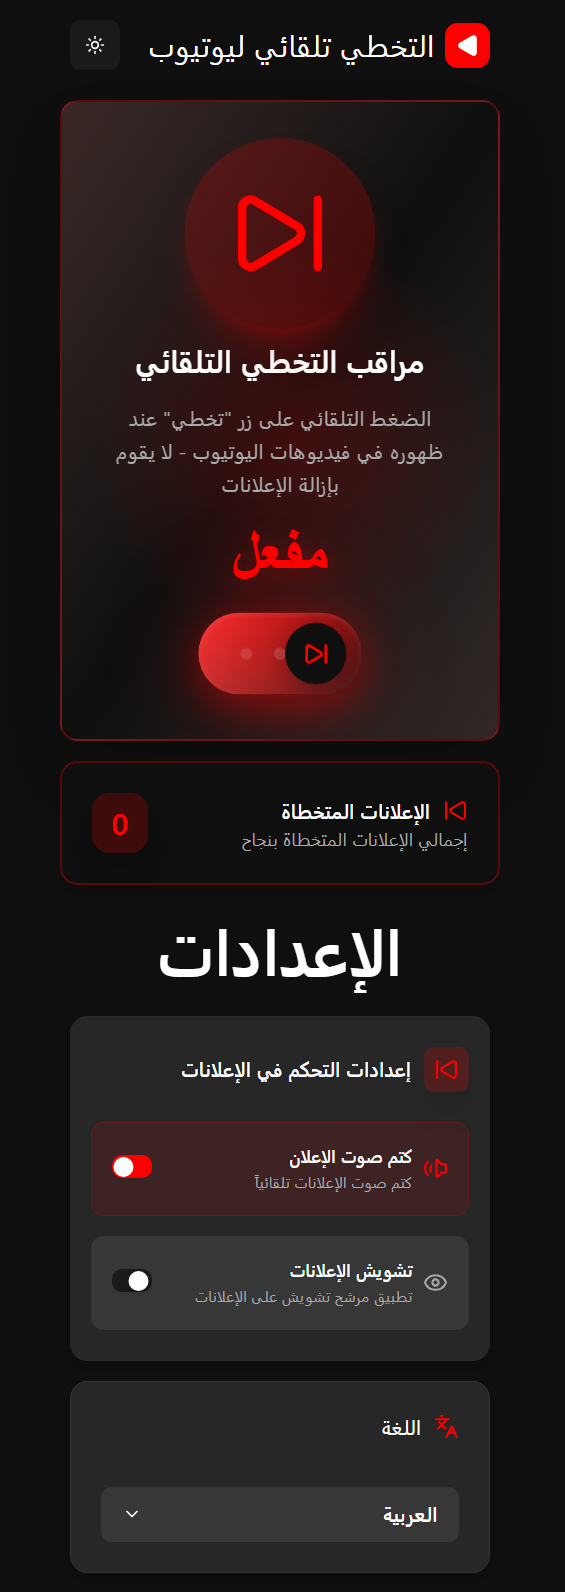
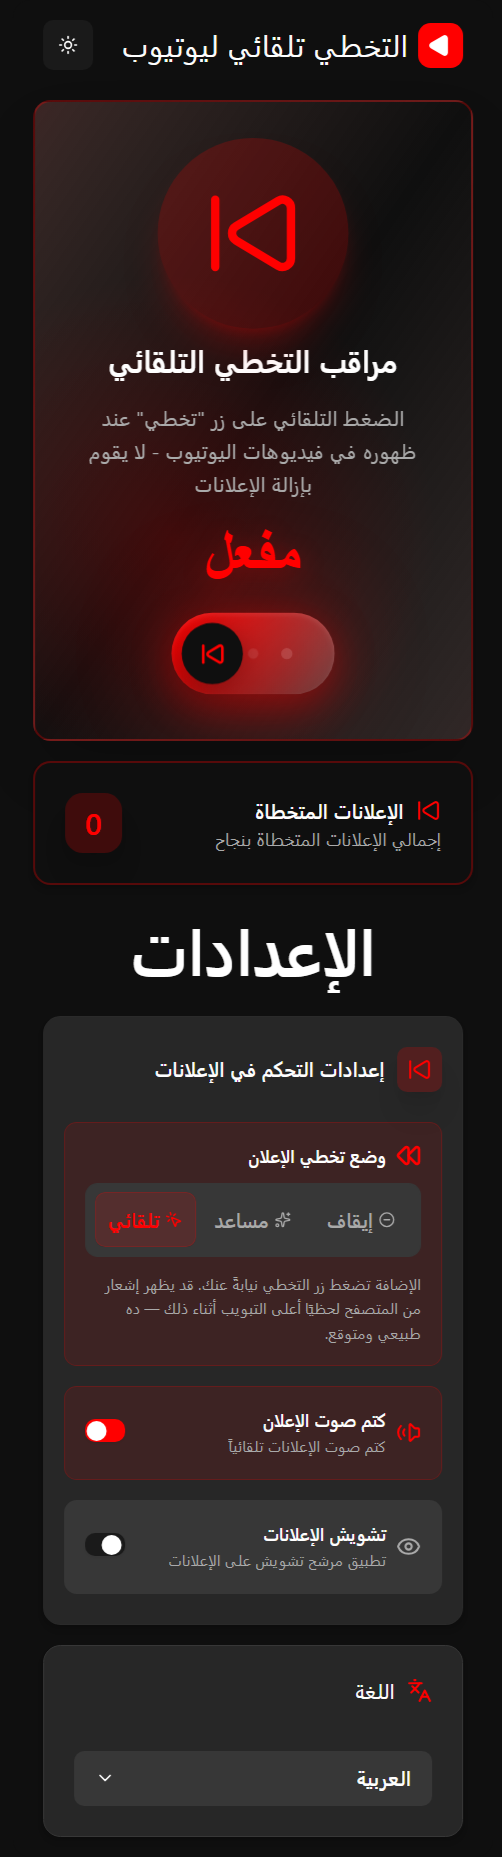
feat: update README with enhanced description and skip modes; add new preview screenshot

Changed region(s): [[0.0598, 0.0, 0.9562, 1.0], [0.9263, 0.4309, 0.9562, 0.4617]]

diff --git a/README.md b/README.md
@@ -4,12 +4,11 @@
 </h1>
 <p align="center">
   <em>
-    A smart and lightweight Chrome extension that automatically skips YouTube ads, mutes ads when needed, 
-    and slightly reduces ad visibility using blur. 
-    It never deletes ads and only interacts with the official “Skip Ads” button.
+    A smart and lightweight Chrome extension that helps you skip YouTube ads using multiple skip modes,
+    from highlighting the Skip Ad button to clicking it automatically when it appears.
+    It never deletes or blocks ads and only interacts with YouTube's official "Skip Ad" button.
   </em>
 </p>
-
 
 <p align="center">
   <img src="https://img.shields.io/badge/Chrome-Extension-4285F4?style=for-the-badge&logo=google-chrome" />
@@ -22,11 +21,25 @@
 
 ## ✨ Overview
 
-**AutoSkip for YouTube** is a modern **Chrome Extension** built with **React** and **TypeScript**  
-that enhances your YouTube watching experience by providing full control over ads while keeping content intact.  
+**AutoSkip for YouTube** is a modern **Chrome Extension** built with **React** and **TypeScript**
+that gives you flexible control over YouTube's **Skip Ad** button without removing or blocking ads.
 
-It **automatically clicks the "Skip" button** as soon as it appears in YouTube videos — it **does not remove ads**  
-and **fully complies with YouTube's policies**.
+### ⏭ Skip Modes
+
+AutoSkip provides multiple ways to handle skippable ads:
+
+* 👆 **Auto Mode** — Automatically clicks the **Skip Ad** button as soon as it appears.
+* ⚡ **Assist Mode** — Highlights the **Skip Ad** button when it appears, so you can click it yourself.
+* ⏹ **Off Mode** — Leaves the **Skip Ad** button completely untouched.
+
+The extension only interacts with YouTube's official **"Skip Ad"** button.
+It **does not remove, block, or hide ads**.
+
+---
+
+## 📸 Preview
+
+![AutoSkip for YouTube Preview](public/assets/screenshots/AutoSkip-for-YouTube_preview.png)
 
 ---
 
@@ -34,14 +47,16 @@ and **fully complies with YouTube's policies**.
 
 | Feature | Description |
 |------|------------|
-| ⏭ **Auto Skip Ads** | Automatically clicks the *Skip Ad* button as soon as it appears |
-| 🔇 **Mute Ads** | Option to mute ads when skipping is not available |
-| 🌫 **Blur Ads** | Option to blur ads instead of removing them, reducing distraction while preserving content |
+| ⏭ **Three-Mode Ad Skipping** | Choose how ads are skipped: **Off** (extension never touches the button), **Assist** (highlights the Skip button so you click it yourself — no extra permission needed), or **Auto** (clicks it for you automatically) |
+| 🛡 **Transparent Permission Prompt** | Before enabling Auto mode, a clear in-app dialog explains exactly what will happen — before Chrome's own technical permission prompt ever appears |
+| 🔇 **Mute Ads** | Automatically mutes ad audio |
+| 🌫 **Blur Ads** | Blurs ad videos instead of removing them, reducing distraction while preserving content |
 | 🧮 **Ads Skipped Counter** | Keeps track of the total number of ads successfully skipped |
-| 🎛 **Enable / Disable Toggle** | Simple switch to turn the extension on or off |
-| 🌍 **Multi-language Support** | Built-in internationalization using **i18next** |
-| 🎨 **Modern UI** | Clean UI built with Tailwind CSS and Radix UI |
-| ⚡ **High Performance** | Lightweight logic with minimal impact on browser performance |
+| ⚠ **Selector Health Warning** | Detects when YouTube changes its layout and a Skip button can no longer be found, and surfaces a warning in the popup |
+| 🎛 **Master Enable / Disable Toggle** | One switch to turn the whole extension on or off |
+| 🌍 **Multi-language Support** | Built-in internationalization using **i18next** (English & Arabic, with full RTL support) |
+| 🎨 **Modern UI** | Clean UI built with Tailwind CSS and Radix UI, with Dark/Light theme support |
+| ⚡ **High Performance** | Mutation-observer driven detection with a safety-net interval only as a fallback — minimal impact on browser performance |
 
 ---
 
@@ -50,11 +65,12 @@ and **fully complies with YouTube's policies**.
 | Category | Tools & Libraries |
 |-------|------------------|
 | **Core** | React 19.2.0, TypeScript 5.9.3, Vite 7.2.2 |
-| **Extension APIs** | Chrome Extensions API |
+| **Extension APIs** | Chrome Extensions API (`storage`, `debugger`) |
 | **UI** | Tailwind CSS, Shadcn / UI, Lucide Icons |
-| **State & Logic** | Custom logic + Chrome storage |
+| **State & Logic** | Custom logic + Chrome storage (`sync` for settings, `local` for the counter) |
 | **Animations** | Motion |
 | **Internationalization** | i18next, react-i18next |
+| **Testing** | Playwright (selector health checks against the live YouTube DOM) |
 
 ---
 
@@ -68,29 +84,31 @@ AutoSkip-for-YouTube/
 │   │   ├── shared/          # Shared / common components
 │   │   └── ui/              # Design system & primitive UI components
 │   ├── constants/           # App-wide constants & enums
-│   ├── contexts/            # React contexts (theme, settings, language)
+│   ├── contexts/            # React contexts (theme)
 │   ├── extension/           # Chrome extension logic
 │   │   ├── background.ts    # Background service worker
-│   │   └── content.ts       # Content script (YouTube DOM interaction)
-│   ├── hooks/               # Custom React hooks
-│   ├── i18n/                # i18next configuration & initialization
-│   ├── lib/                 # Shared libraries & helpers
-│   ├── types/               # Global TypeScript types
-│   ├── utils/               # Utility functions
-│   ├── App.tsx              # Popup root component
-│   └── main.tsx             # React entry point
+│   │   ├── content.ts       # Content script (YouTube DOM interaction)
+│   │   └── shared/           # Selectors, storage helpers, logger
+│   ├── hooks/                # Custom React hooks (watcher state, skip mode, theme)
+│   ├── i18n/                 # i18next configuration & initialization
+│   ├── lib/                  # Shared libraries & helpers
+│   ├── types/                 # Global TypeScript types
+│   ├── utils/                 # Utility functions
+│   ├── App.tsx                # Popup root component
+│   └── main.tsx                # React entry point
 │
 ├── public/
-│   ├── _locales/            # Chrome extension metadata translations
+│   ├── _locales/              # Chrome extension metadata translations
 │   ├── assets/
-│   │   ├── icons/           # Extension icons
-│   │   └── screenshots/     # README screenshots
-│   ├── locales/             # UI translations (design text & labels)
-│   └── manifest.json        # Chrome extension manifest
+│   │   ├── icons/              # Extension icons
+│   │   └── screenshots/        # README screenshots
+│   ├── locales/                # UI translations (design text & labels)
+│   └── manifest.json           # Chrome extension manifest
 │
-├── vite.config.ts           # Vite base config (popup UI)
-├── vite.content.config.ts   # Vite config for content script
-├── vite.background.config.ts# Vite config for background worker
+├── tests/                      # Playwright selector health tests
+├── vite.config.ts              # Vite base config (popup UI)
+├── vite.content.config.ts      # Vite config for content script
+├── vite.background.config.ts   # Vite config for background worker
 └── package.json
 
 ```
@@ -105,54 +123,38 @@ AutoSkip-for-YouTube/
 | 🧩 **Accessible Components** | Powered by Radix UI                  |
 | 📱 **Responsive Popup**      | Works perfectly in Chrome popup size |
 | ✨ **Smooth Animations**     | Motion-based interactions            |
+| 🔁 **RTL-aware**             | Mirrors layout, switches, and the Skip-mode highlight correctly in Arabic |
 
 ---
 
 ## 🔒 Permissions & Security
 
+| Permission | Why it's needed |
+| ---------- | ---------------- |
+| `storage`  | Saves your settings (skip mode, mute, blur, language, theme) and the ads-skipped counter locally |
+| `host_permissions` (`*.youtube.com`, `*.youtube-nocookie.com`) | Lets the content script detect and interact with the Skip button on YouTube pages only |
+| `debugger` | Used **only** in Auto mode, and only for the instant it dispatches a real click on the Skip button. You are shown an in-app explanation before this is ever used, and you can switch back to Assist or Off at any time |
+
 | Item                     | Details                               |
-| ------------------------ | ------------------------------------- |
-| 🔐 **Permissions**       | Uses only required Chrome permissions |
-| 🛡 **Safe DOM Handling**  | No invasive page modifications        |
-| 🔒 **No Data Tracking**  | No user data collection               |
-| 📝 **Validation**        | Safe logic and controlled execution   |
+| ------------------------ | -------------------------------------- |
+| 🛡 **Safe DOM Handling**  | No invasive page modifications — mute, blur and highlight are applied via separate overlays, never by editing YouTube's own elements |
+| 🔒 **No Data Tracking**  | No user data collection, no external network requests |
+| 📝 **Validation**        | Safe logic and controlled execution, with graceful fallbacks if YouTube changes its layout |
 
 ---
 
-## 📱 UI Preview
+## 📥 Quick Install (No Building Required)
 
-<div align="center">
+> 💡 **Recommended for most users** — download the pre-built extension and load it directly. No Node.js, no terminal, no build step.
 
-### 🌓 Theme Variations
-
-<p align="center">
-  <em>AutoSkip popup UI across themes and languages</em>
-</p>
-
-<table align="center">
-  <tr>
-    <td align="center">
-      <strong>Dark · English</strong><br/>
-      <img src="public/assets/screenshots/dark-en.png" width="200"/>
-    </td>
-    <td align="center">
-      <strong>Light · English</strong><br/>
-      <img src="public/assets/screenshots/light-en.png" width="200"/>
-    </td>
-  </tr>
-  <tr>
-    <td align="center">
-      <strong>Dark · Arabic</strong><br/>
-      <img src="public/assets/screenshots/dark-ar.png" width="200"/>
-    </td>
-    <td align="center">
-      <strong>Light · Arabic</strong><br/>
-      <img src="public/assets/screenshots/light-ar.png" width="200"/>
-    </td>
-  </tr>
-</table>
-
-</div>
+| Step | What to do |
+|:---:|---|
+| 1⃣ | Download the latest `.zip` from the [**Releases page**](https://github.com/Maher-Elmair/AutoSkip-for-YouTube/releases/latest) |
+| 2⃣ | Extract the zip file to a folder on your computer |
+| 3⃣ | Open Chrome and go to `chrome://extensions` |
+| 4⃣ | Enable **Developer mode** (top-right toggle) |
+| 5⃣ | Click **Load unpacked** and select the extracted folder |
+| 6⃣ | ✅ Done! The AutoSkip icon now appears in your toolbar |
 
 ---
 
@@ -183,16 +185,24 @@ After build:
 4. Click **Load unpacked**
 5. Select the `dist` folder
 
+### Run Selector Health Tests
+
+```bash
+
+npx playwright install --with-deps chromium
+npx playwright test
+
+```
+
 ---
 
 ## 🛣 Roadmap
 
 | Feature                                 | Status      |
 | --------------------------------------- | ----------- |
-| Improve skip detection reliability      | In progress |
 | Better mute logic for non-skippable ads | Planned     |
-| Blur ad instead of removing it          | Planned     |
-| Statistics & skipped ads counter        | Planned     |
+| Custom delay before skipping            | Planned     |
+| Expanded language support beyond English/Arabic | Planned |
 | Firefox support                         | In progress |
 
 ---
@@ -217,13 +227,14 @@ The following features are planned for future releases to improve flexibility, a
 - Smooth transitions when adjusting transparency
 
 ### ⚙ General Improvements
-- More stable ad detection logic
+- Continue hardening skip detection against future YouTube layout changes
 - Better handling of YouTube DOM updates
 - Improved performance and lower CPU usage
 
-### ⏱ Custom delay before skipping
+### ⏱ Custom Delay Before Skipping
 - Let users set a personalized delay before the skip action triggers
---- 
+
+---
 
 ## 👨💻 Author
 
@@ -238,25 +249,23 @@ The following features are planned for future releases to improve flexibility, a
 
 ## 🌐 Live Demo
 
-🚀 **Try the AutoSkip UI live (Popup Preview):**  
-👉 [AutoSkip.vercel.app](https://autoskip-for-youtube.vercel.app//)
+🚀 **Try the AutoSkip UI live (Popup Preview):**
+👉 [AutoSkip.vercel.app](https://autoskip-for-youtube.vercel.app/)
 
 > This live demo showcases the **popup UI design**, including:
 > - Dark / Light themes
 > - Arabic & English language support
-> - Settings layout and interactions
->
-> ⚠ Note:  
-> Due to browser security restrictions, the live demo **does not include actual ad-skipping functionality**.  
-> The core extension logic works only inside the browser extension environment.
+> - Settings layout and interactions, including the Skip Mode switch
 
 ---
 
-🙌 **Thank you for visiting!**  
-If you liked the project, please ⭐ the repository!  
+🙌 **Thank you for visiting!**
+If you liked the project, please ⭐ the repository!
 
-Contributions, feedback, and PRs are always welcome 🙏  
-If you have any solutions for the current issues or ideas to help implement the **future enhancements** listed above,  
-don’t hesitate to submit them — I will gladly review and accept them!
+Contributions, feedback, and PRs are always welcome 🙏<br>
+If you have any solutions for the current issues or ideas to help implement the future enhancements listed above,<br>
+don't hesitate to submit them — I will gladly review and accept them!
 
 ---
+
+<h6 align="center"><i>AutoSkip for YouTube — Skip ads the moment the Skip button appears</i></h6>
